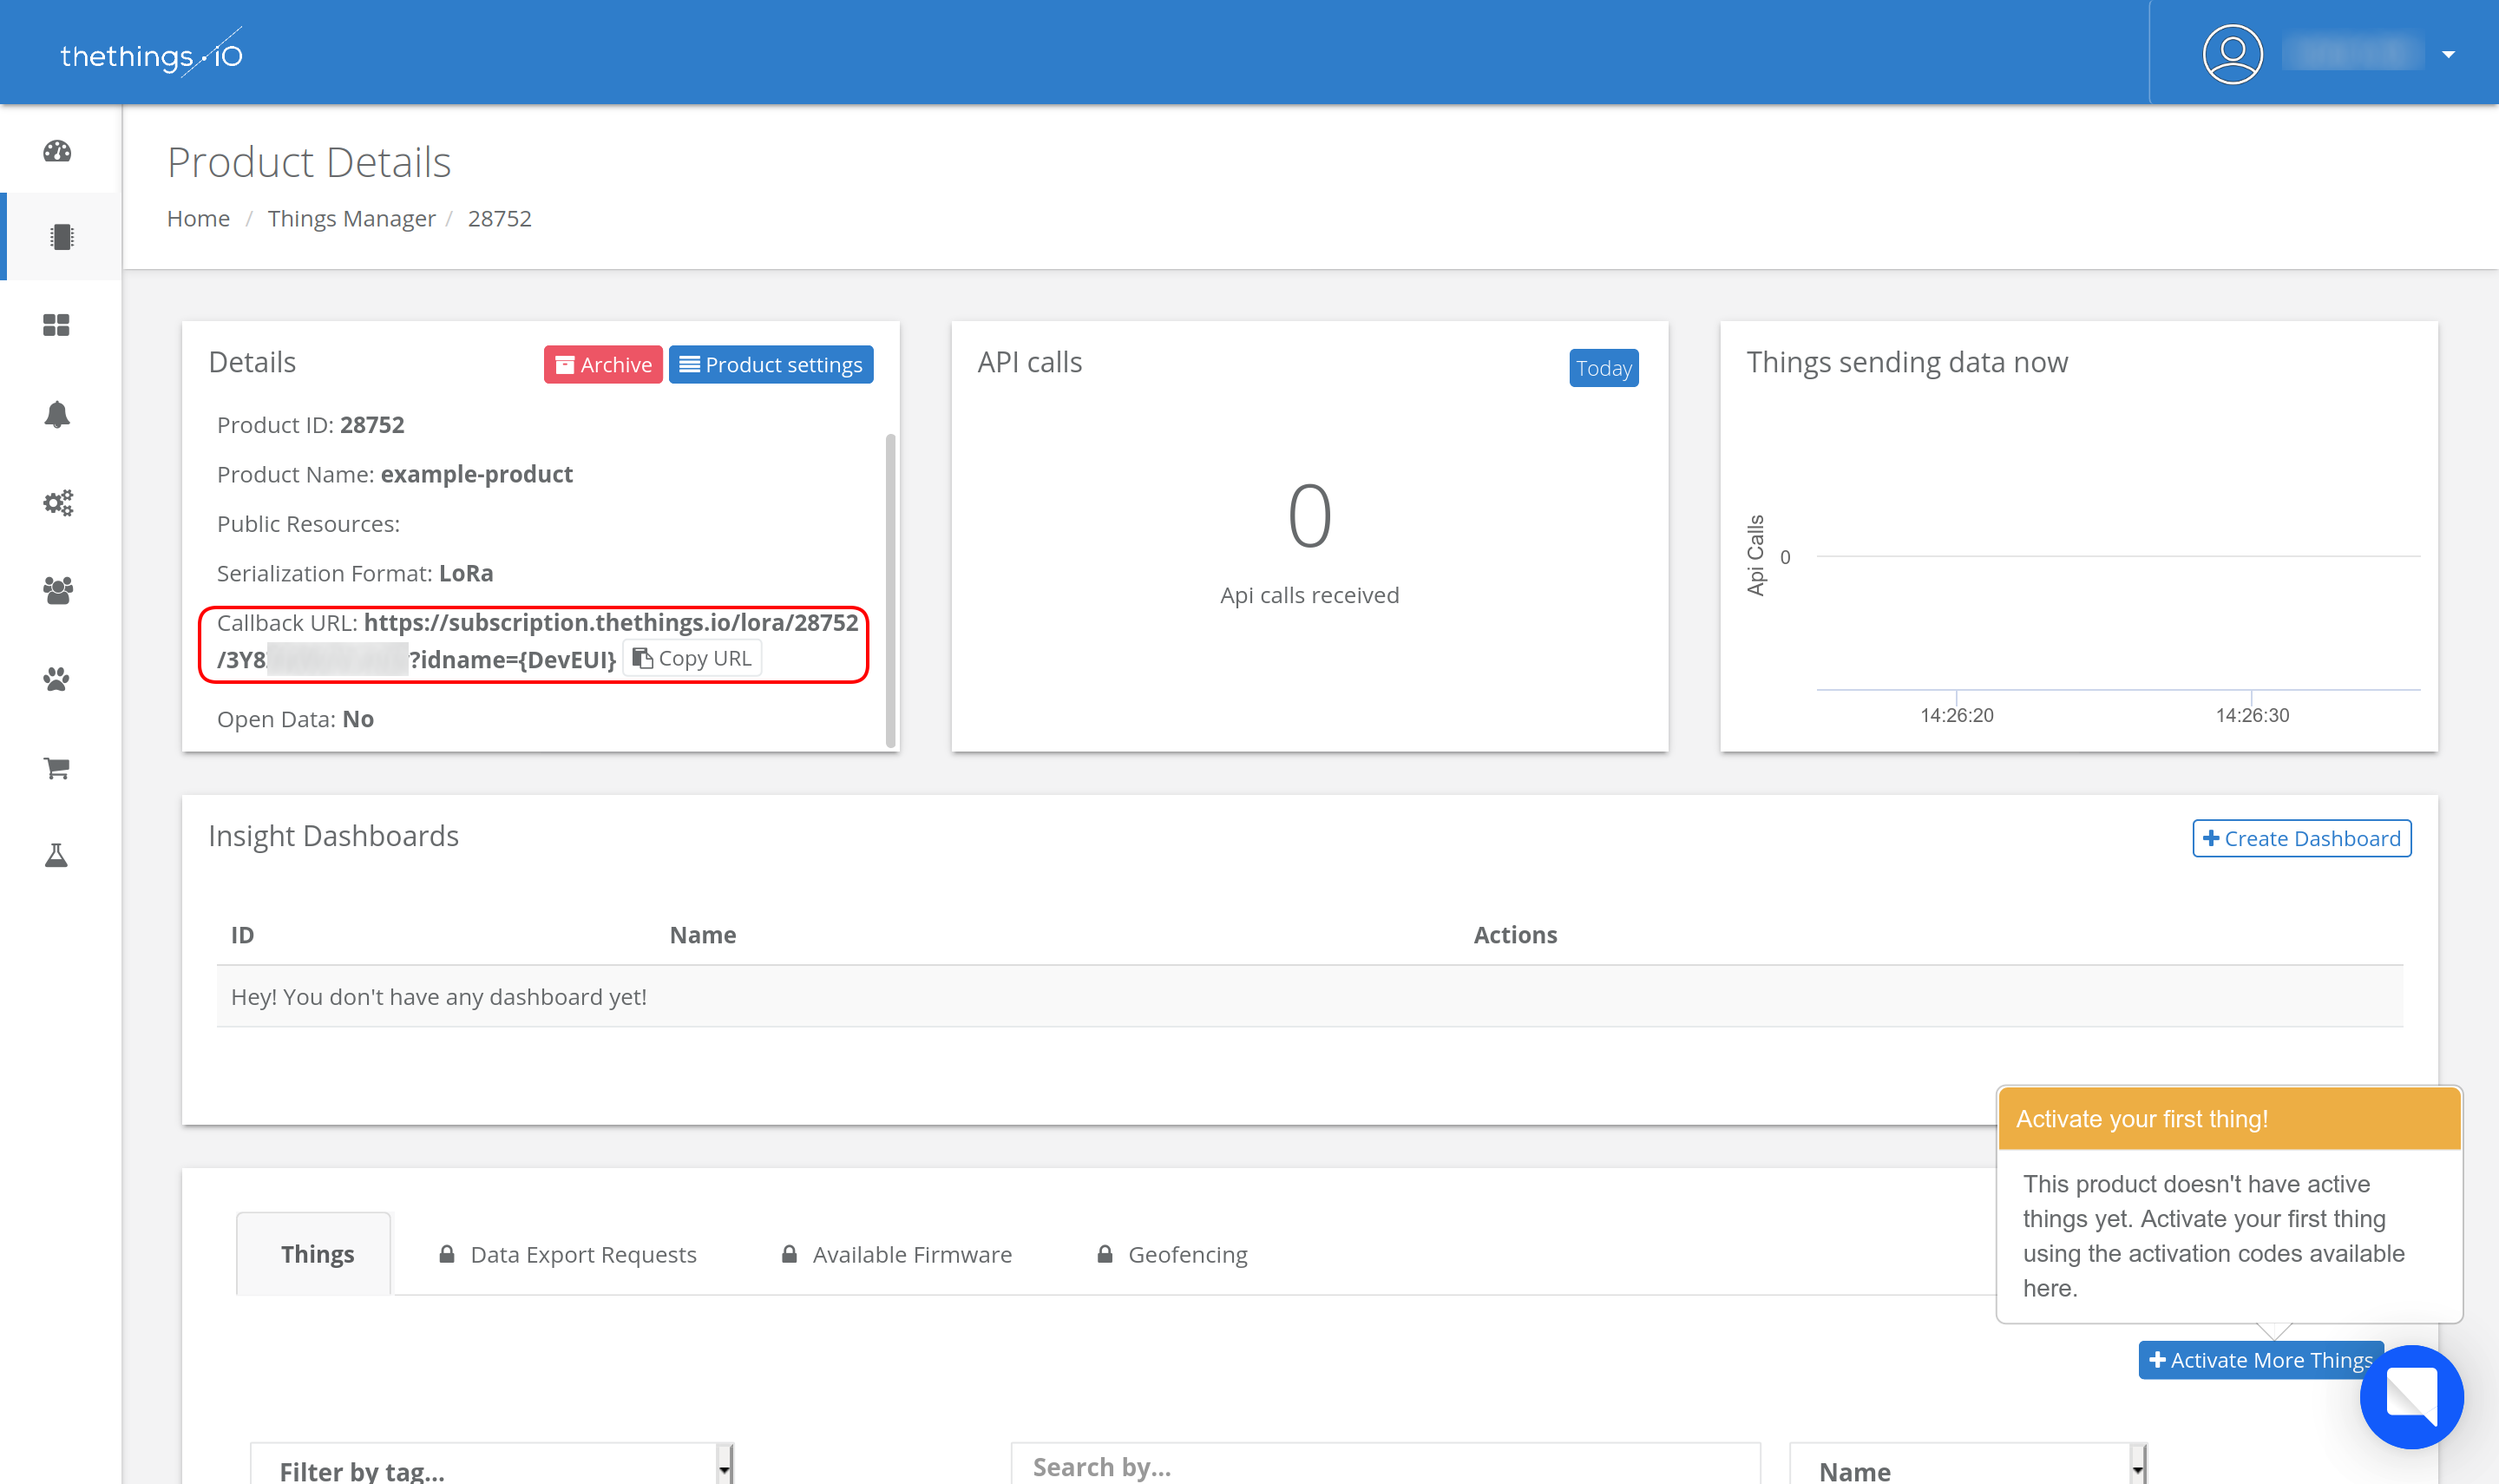
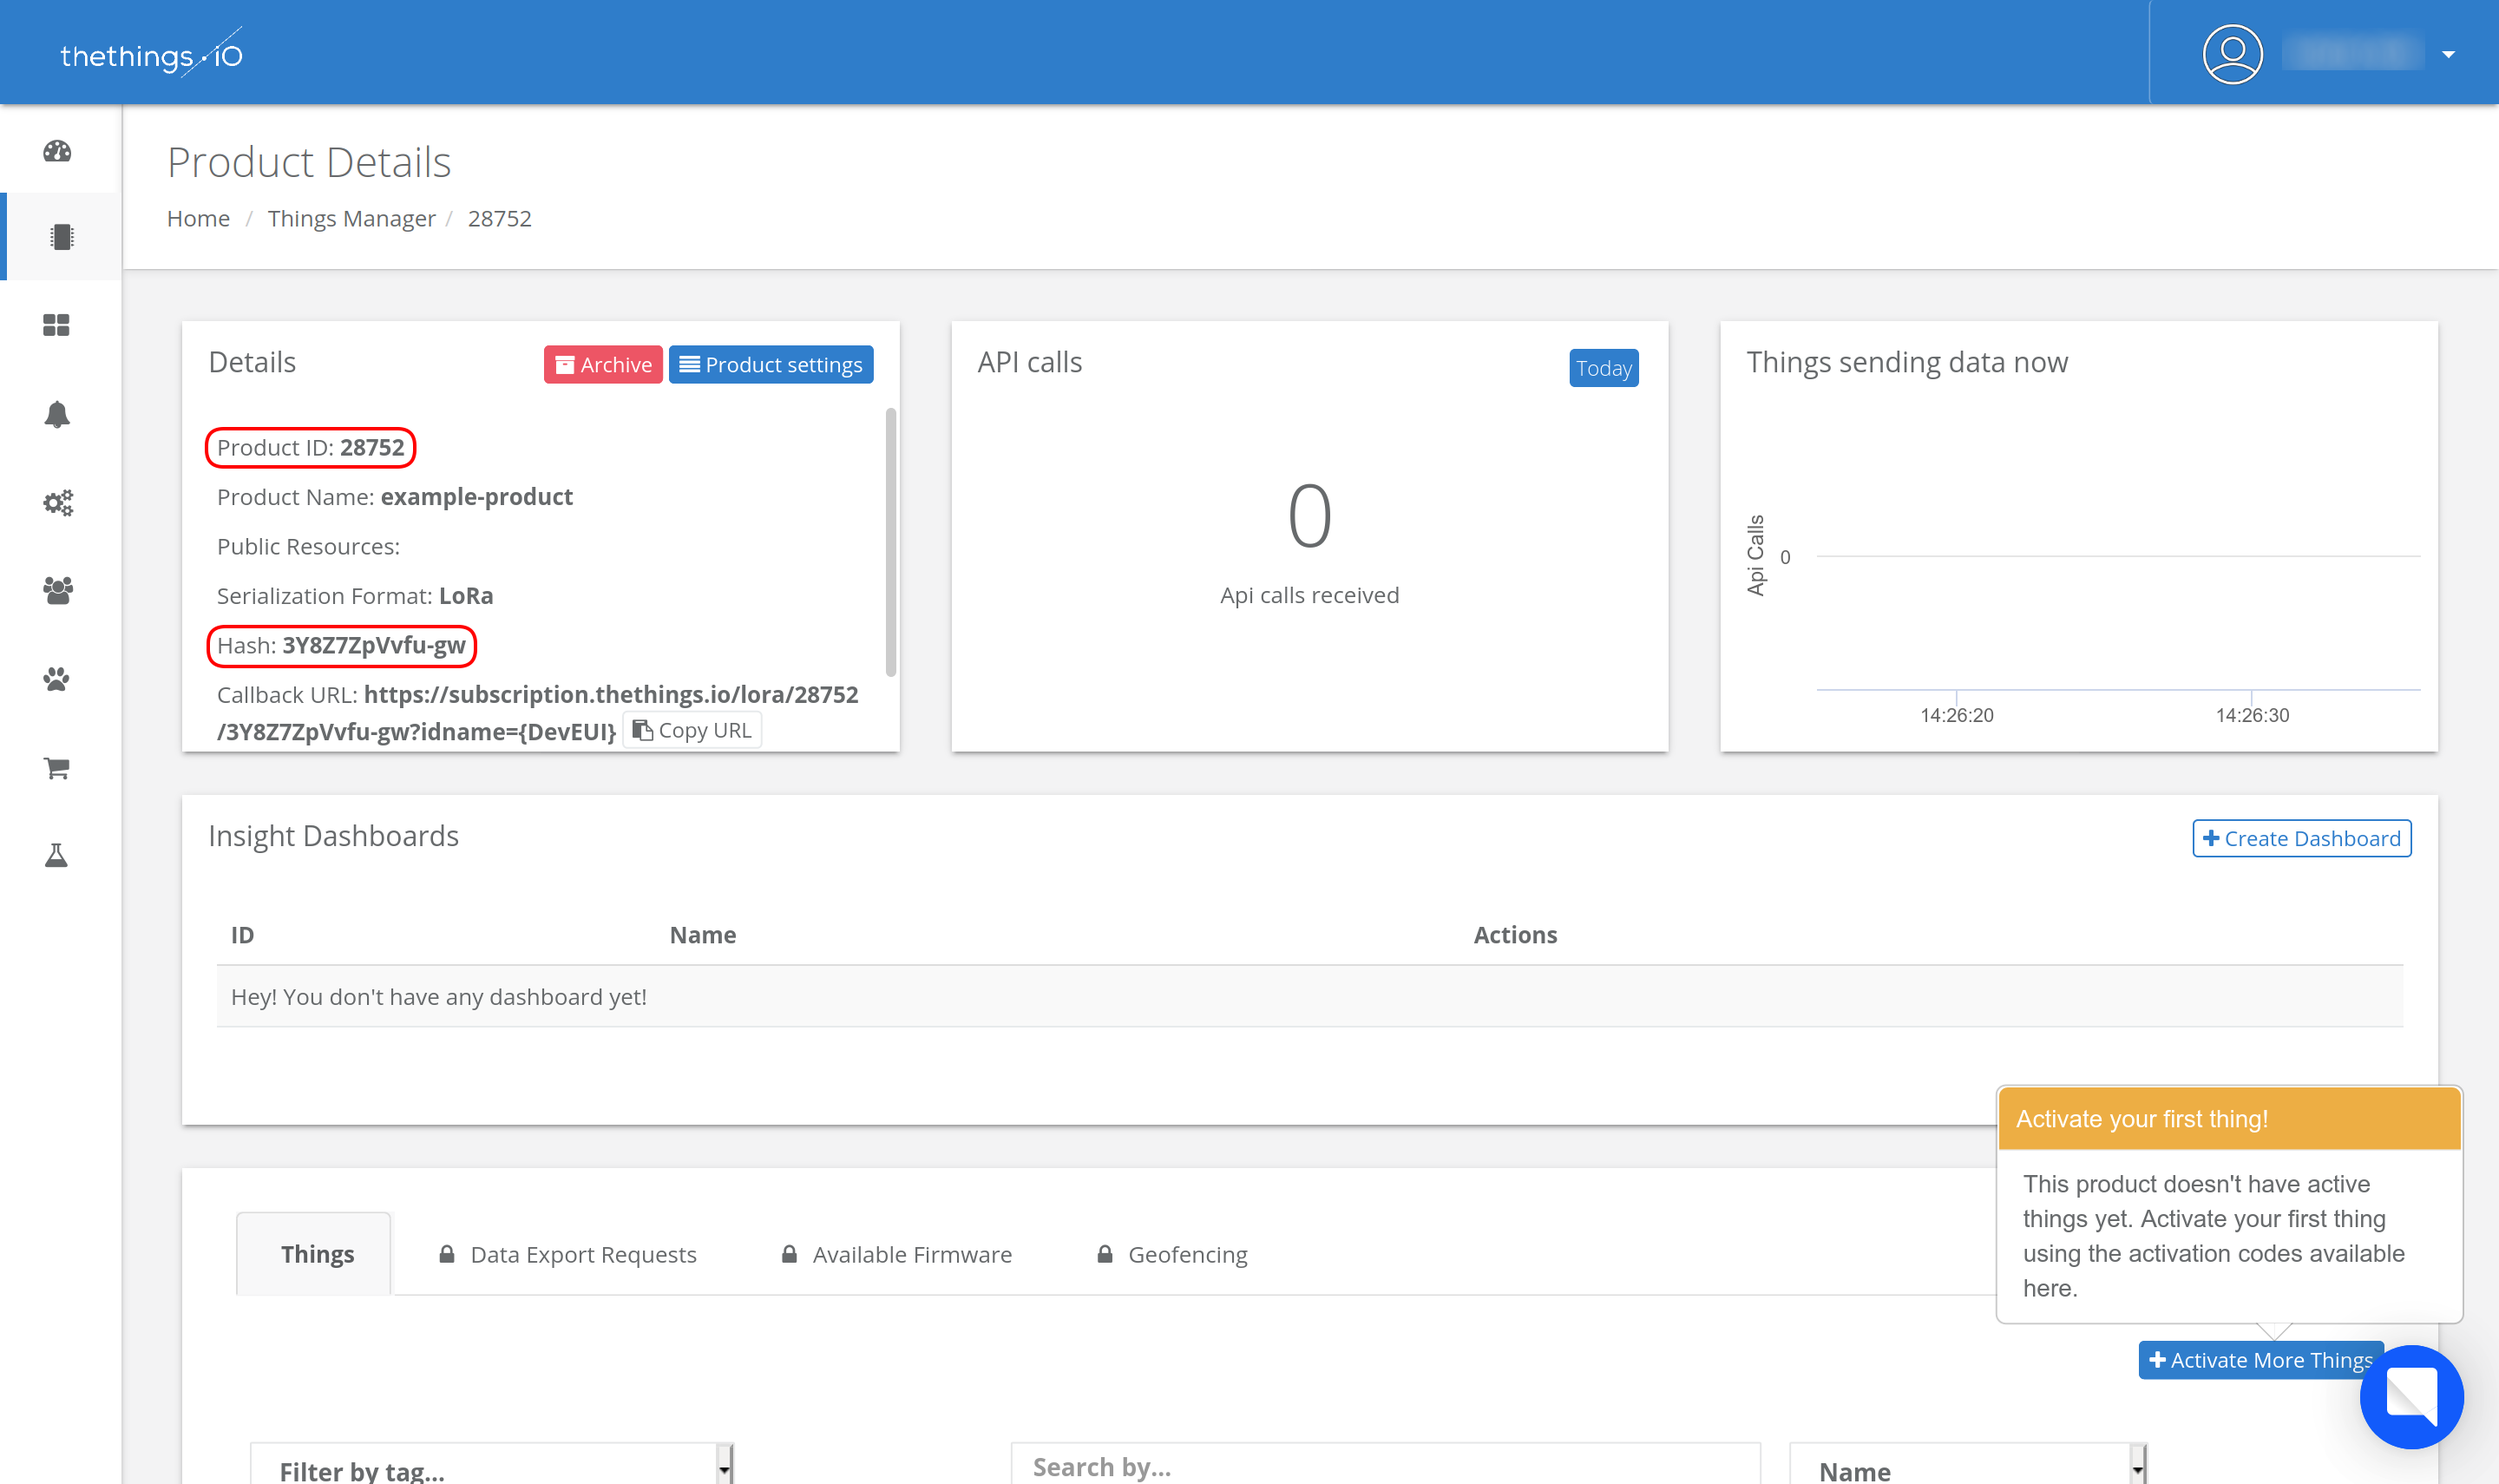
doc: Update thethings.io guide

Changed region(s): [[0.0625, 0.2789, 0.375, 0.4959]]

diff --git a/doc/content/integrations/cloud-integrations/thethingsio/thethingsio-setup/_index.md b/doc/content/integrations/cloud-integrations/thethingsio/thethingsio-setup/_index.md
@@ -45,12 +45,8 @@ function main(params, callback){
 
 Once you have created the product and the parser function, thethings.iO setup is ready. The next step will be creating the Webhook integration on {{% tts %}}. 
 
-However, to complete the Webhook integration, you will need some information that can be obtained from your product's callback URL.
-
-You can find your product's callback URL if you navigate back to **Things** on the left hand menu, find the product you created and click on **Details**. The **Callback URL** is listed in the **Details** window on the top left.
+To complete the Webhook integration, you will need some information about the product you created in the previous steps. You can find the **Product ID** and its **Hash** in the **Details** window of the created product.
 
 {{< figure src="callback-url.png" alt="Callback URL" >}}
-
-{{< note >}} The callback URL contains your product's ID and its hash. For example, if your callback URL is `https://subscription.thethings.io/lora/foo/bar?idname={DevEUI}`, the product ID is `foo` and the hash is `bar`. {{</ note >}}
 
 At this point, you can see that the API has not been called yet. Also, if you scroll down and check the **Things** section, you will see that your product does not have any things activated yet. After we complete the integration, a thing will be activated within your product, you will see the API calls and you will be able to visualize the incoming data!

diff --git a/doc/content/integrations/cloud-integrations/thethingsio/tts-setup/_index.md b/doc/content/integrations/cloud-integrations/thethingsio/tts-setup/_index.md
@@ -12,7 +12,7 @@ On {{% tts %}}, navigate to **Integrations &#8594; Webhooks** and choose **theth
 
 Name your integration by filling in the **Webhook ID** field. 
 
-Copy the product ID and its hash from thethings.iO **Callback URL** as explained in [thethings.iO Setup]({{< ref "/integrations/cloud-integrations/thethingsio/thethingsio-setup" >}}) section, and paste them into the **Product ID** and the **Hash** fields of the template, respectively.
+Paste the **Product ID** and **Hash** values from thethings.iO into the equally named fields of the Webhook template.
 
 {{< figure src="thethingsio-webhook-integration.png" alt="Creating the Webhook integration" >}}
 
@@ -20,5 +20,5 @@ Hit the **Create thethings.io webhook** button to finish.
 
 {{< note >}} To see the values of all parameters of the thethins.iO integration, click on the integration after you created it with the Webhook template. 
 
-If you do this, you will see that the final callback URL has the following structure: `https://subscription.thethings.io/lora/foo/bar?idname=end_device_ids.dev_eui`. {{</ note >}}
+If you do this, you will see that the final callback URL has the following structure: `https://subscription.thethings.io/lora/{Product ID}/{Hash}?idname=end_device_ids.dev_eui`. {{</ note >}}
 
